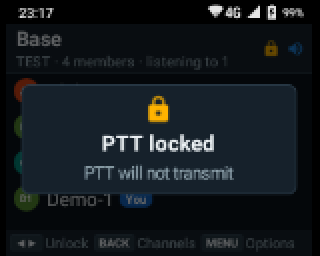
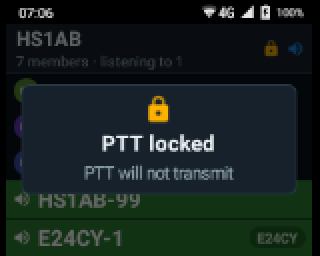
README: real screenshots from the E2Hub server
Login, members, monitoring (a voice from a monitored channel with its tag),
channels, menu, volume, PTT lock and mute are now from real use on the hub.
Transmitting stays from the test server so no test key-up went to the hub;
the launcher shows no server data.

diff --git a/README.en.md b/README.en.md
@@ -108,16 +108,17 @@ QRV-Hub is the set of fixes, measured and tested on the radio.
 
 ### Screenshots
 
-Taken on the radio itself (160×128, shown at 2×), on a test server with made-up names, hence "TEST" in the header.
+Taken on the radio itself (160×128, shown at 2×) in real use on the E2Hub server, except
+"Transmitting", which was taken on a test server ("TEST") so nobody on the hub heard a test key-up.
 
 |   |   |
 |---|---|
 | <img src="docs/screenshots/login.png" width="320" alt="**Login**: just username and password; the server is built in"> | <img src="docs/screenshots/members.png" width="320" alt="**Members** of your channel"> |
 | **Login**: just username and password; the server is built in | **Members** of your channel |
-| <img src="docs/screenshots/speaking.png" width="320" alt="**Monitoring**: Alpha-1 talks in your channel, Delta-4 in the monitored channel North"> | <img src="docs/screenshots/channels.png" width="320" alt="**Channels**: monitored ones have a blue speaker"> |
-| **Monitoring**: Alpha-1 talks in your channel, Delta-4 in the monitored channel North | **Channels**: monitored ones have a blue speaker |
-| <img src="docs/screenshots/transmitting.png" width="320" alt="**Transmitting** (PTT held)"> | <img src="docs/screenshots/menu.png" width="320" alt="**Options** (MENU)"> |
-| **Transmitting** (PTT held) | **Options** (MENU) |
+| <img src="docs/screenshots/speaking.png" width="320" alt="**Monitoring**: HS1AB-99 talks in your channel, E24CY-1 in the monitored channel E24CY (with its tag)"> | <img src="docs/screenshots/channels.png" width="320" alt="**Channels**: monitored ones have a blue speaker"> |
+| **Monitoring**: HS1AB-99 talks in your channel, E24CY-1 in the monitored channel E24CY (with its tag) | **Channels**: monitored ones have a blue speaker |
+| <img src="docs/screenshots/transmitting.png" width="320" alt="**Transmitting** (PTT held)"> | <img src="docs/screenshots/menu.png" width="320" alt="**Menu** for a monitored channel (MENU)"> |
+| **Transmitting** (PTT held) | **Menu** for a monitored channel (MENU) |
 | <img src="docs/screenshots/volume.png" width="320" alt="**Volume**: 30 steps on the knob"> | <img src="docs/screenshots/locked.png" width="320" alt="**PTT lock** on ◀/▶"> |
 | **Volume**: 30 steps on the knob | **PTT lock** on ◀/▶ |
 | <img src="docs/screenshots/muted.png" width="320" alt="**Mute**: double-press Power"> | <img src="docs/screenshots/launcher.png" width="320" alt="**QRV-Hub Launcher**: QRV-Hub or Spender Network"> |
